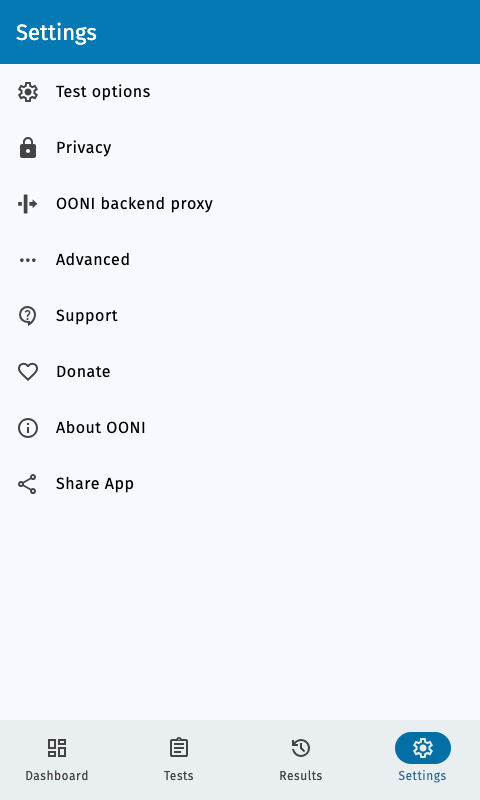
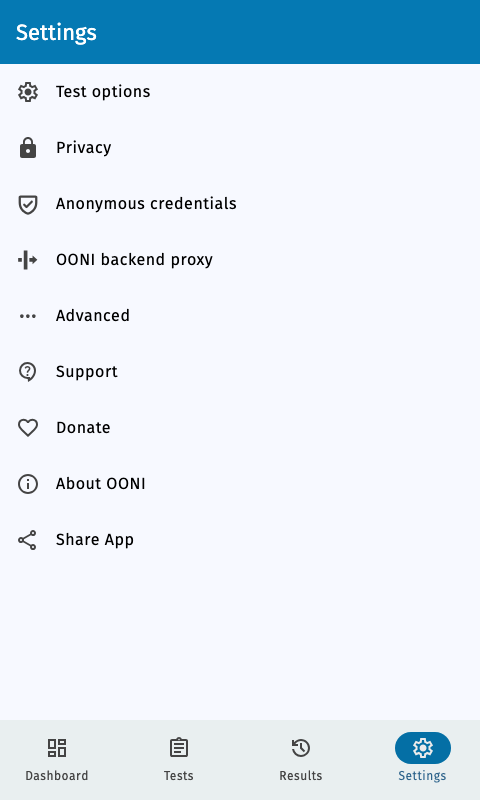
chore: add screenshots

diff --git a/composeApp/src/desktopTest/kotlin/org/ooni/probe/screenshots/DesktopScreenshotsTest.kt b/composeApp/src/desktopTest/kotlin/org/ooni/probe/screenshots/DesktopScreenshotsTest.kt
@@ -352,7 +352,7 @@ class DesktopScreenshotsTest {
     @Test
     fun submitOutcomeDashboardUpdateRequired() =
         perLocale { locale ->
-            renderSubmitOutcome {
+            renderApp {
                 DashboardScreen(
                     state = DashboardViewModel.State(updateRequired = true),
                     onEvent = {},
@@ -364,7 +364,7 @@ class DesktopScreenshotsTest {
     @Test
     fun submitOutcomeCredentialsCredentialNeedsReset() =
         perLocale { locale ->
-            renderSubmitOutcome {
+            renderApp {
                 AnonymousCredentialsScreen(
                     state =
                         AnonymousCredentialsViewModel.State(
@@ -380,7 +380,7 @@ class DesktopScreenshotsTest {
     @Test
     fun submitOutcomeCredentialsReady() =
         perLocale { locale ->
-            renderSubmitOutcome {
+            renderApp {
                 AnonymousCredentialsScreen(
                     state =
                         AnonymousCredentialsViewModel.State(
@@ -401,7 +401,7 @@ class DesktopScreenshotsTest {
     @Test
     fun submitOutcomeCredentialsNoCredential() =
         perLocale { locale ->
-            renderSubmitOutcome {
+            renderApp {
                 AnonymousCredentialsScreen(
                     state =
                         AnonymousCredentialsViewModel.State(
@@ -413,21 +413,6 @@ class DesktopScreenshotsTest {
             }
             capture(locale, "26-submit-outcome-credential-no-credential")
         }
-
-    private fun ComposeUiTest.renderSubmitOutcome(content: @Composable () -> Unit) {
-        val (_, _, density) = screenshotViewport()
-        setContent {
-            CompositionLocalProvider(
-                LocalDensity provides Density(density = density, fontScale = 1f),
-                LocalLifecycleOwner provides TestLifecycleOwner(Lifecycle.State.RESUMED),
-            ) {
-                AppTheme(useDarkTheme = false) {
-                    content()
-                }
-            }
-        }
-        waitForIdle()
-    }
 
     private fun perLocale(block: ComposeUiTest.(locale: String) -> Unit) {
         val previousLocale = Locale.getDefault()
@@ -447,9 +432,20 @@ class DesktopScreenshotsTest {
         }
     }
 
-    private fun ComposeUiTest.renderApp() {
+    private fun ComposeUiTest.renderApp(content: (@Composable () -> Unit)? = null) {
         val (_, _, density) = screenshotViewport()
         val chrome = System.getProperty(CHROME_PROPERTY).orEmpty()
+
+        @Composable
+        fun renderContent() {
+            if (content == null) {
+                App(dependencies = dependencies, deepLink = null, useDarkTheme = forcedDarkTheme())
+            } else {
+                AppTheme(useDarkTheme = forcedDarkTheme()) {
+                    content()
+                }
+            }
+        }
         setContent {
             CompositionLocalProvider(
                 LocalDensity provides Density(density = density, fontScale = 1f),
@@ -457,17 +453,12 @@ class DesktopScreenshotsTest {
             ) {
                 when (chrome) {
                     CHROME_MAC ->
-                        MacScreenshotFrame {
-                            App(dependencies = dependencies, deepLink = null, useDarkTheme = forcedDarkTheme())
-                        }
+                        MacScreenshotFrame { renderContent() }
 
                     CHROME_WINDOWS ->
-                        WindowsScreenshotFrame {
-                            App(dependencies = dependencies, deepLink = null, useDarkTheme = forcedDarkTheme())
-                        }
+                        WindowsScreenshotFrame { renderContent() }
 
-                    else ->
-                        App(dependencies = dependencies, deepLink = null, useDarkTheme = forcedDarkTheme())
+                    else -> renderContent()
                 }
             }
         }

diff --git a/buildSrc/src/main/kotlin/TaskRegistration.kt b/buildSrc/src/main/kotlin/TaskRegistration.kt
@@ -47,15 +47,18 @@ fun Project.registerDesktopAppTasks(config: AppConfig) {
     registerBuildConfigTasks(config.supportedLanguages)
     excludeScreenshotTestsFromDesktopTest()
 
+    if (path == ":composeApp") {
+        registerDesktopCaptureScreensTask()
+        registerDesktopCaptureMacAppStoreTask()
+        registerDesktopCaptureMicrosoftStoreTask()
+    }
+
     if (path != ":desktopApp") return
 
     registerDesktopTasks()
     registerWinSparkleTask()
     registerExtractMacOsNativeLibrariesTask()
     registerPrepareDesktopResourcesTask()
-    registerDesktopCaptureScreensTask()
-    registerDesktopCaptureMacAppStoreTask()
-    registerDesktopCaptureMicrosoftStoreTask()
 
     registerSparkleTask()
     registerOONIDistributableTask()

diff --git a/buildSrc/src/main/kotlin/ooni/desktop/DesktopCaptureScreensTask.kt b/buildSrc/src/main/kotlin/ooni/desktop/DesktopCaptureScreensTask.kt
@@ -196,9 +196,10 @@ fun Project.excludeScreenshotTestsFromDesktopTest() {
 
 private fun Test.wireDesktopScreenshotTest() {
     val project = project
-    dependsOn(project.tasks.named("testClasses"))
+    // Screenshot tests live in the KMP jvm `desktopTest` source set (test task `desktopTest`).
+    dependsOn(project.tasks.named("desktopTestClasses"))
 
-    val desktopTest = project.tasks.named<Test>("test").get()
+    val desktopTest = project.tasks.named<Test>("desktopTest").get()
     testClassesDirs = desktopTest.testClassesDirs
     classpath = desktopTest.classpath
     javaLauncher.set(desktopTest.javaLauncher)
